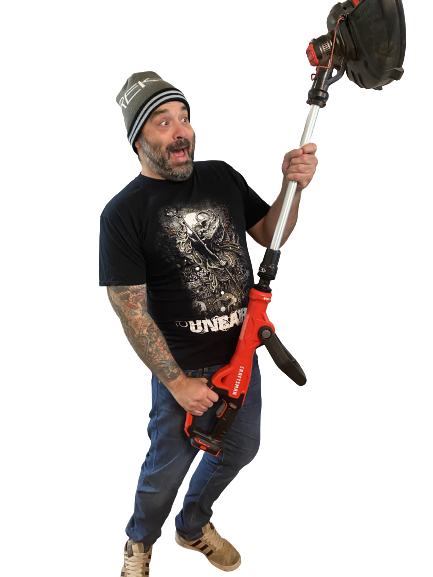
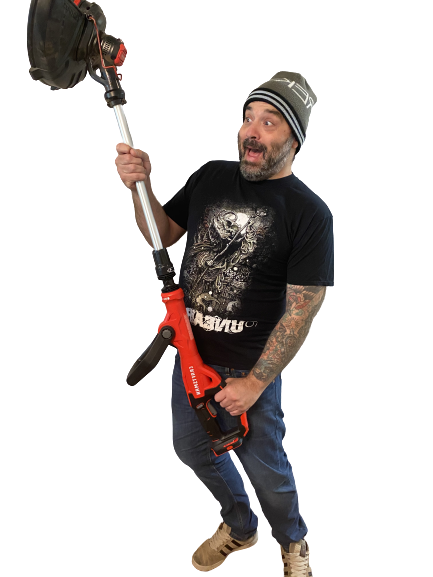
Added Mihalik and Chandler

diff --git a/Gameplay.cs b/Gameplay.cs
@@ -41,13 +41,21 @@ namespace ScorpCamp
         private void PlayerTurn(int cardIndex)
         {
             Card actionCard = this.player.PlayCard(cardIndex);
-            int damage = actionCard.GetDamage();
-            if (damage < 0)
+            if (actionCard.GetType() == typeof(DamageBuffCard))
             {
-                this.enemy.Health += damage;
-            } else
+                player.damageBuff += actionCard.GetDamage();
+            }
+            else
             {
-                this.player.Health += damage;
+                int damage = actionCard.GetDamage();
+                if (damage < 0)
+                {
+                    this.enemy.Health += damage + player.damageBuff;
+                }
+                else
+                {
+                    this.player.Health += damage;
+                }
             }
         }
 

diff --git a/CharacterSelect.cs b/CharacterSelect.cs
@@ -87,6 +87,25 @@ namespace ScorpCamp
                     new StaticDamageCard("Hat", "Waah.png", 12)
                 }
             ));
+            characters.Add(new Character(
+                "Mr. Beard",
+                "Mihalik.png",
+                70,
+                new List<Card>
+                {
+                    new RandomDamageCard("Weed Whacker", "Whacker.png", -100, -1)
+                }
+            ));
+            characters.Add(new Character(
+                "Chandler with a Tape Measure",
+                "Chandler.png",
+                42,
+                new List<Card>
+                {
+                    new DamageBuffCard("Extend", "MeasureBuff.png", -3),
+                    new StaticDamageCard("TapeMeasure", "MeasureAttack.png", -3),
+                }
+            ));
 
             return characters;
         }

diff --git a/DamageBuffCard.cs b/DamageBuffCard.cs
@@ -1,0 +1,27 @@
+using System;
+using System.Collections.Generic;
+using System.Linq;
+using System.Text;
+using System.Threading.Tasks;
+
+namespace ScorpCamp
+{
+    class DamageBuffCard : Card
+    {
+        private int damage;
+
+        public DamageBuffCard(
+            string name,
+            string source,
+            int damage
+        ) : base(name, source)
+        {
+            this.damage = damage;
+        }
+
+        public override int GetDamage()
+        {
+            return damage;
+        }
+    }
+}

diff --git a/Character.cs b/Character.cs
@@ -18,6 +18,8 @@ namespace ScorpCamp
         private List<Card> deck;
 
         private List<Card> hand;
+        public int damageBuff
+        { get; set; }
 
         public List<Card> Hand
         { get => this.hand; }
@@ -47,6 +49,7 @@ namespace ScorpCamp
             this.source = source;
             this.health = health;
             this.deck = deck;
+            this.damageBuff = 0;
             this.MaxHealth = health;
             this.hand = new List<Card>();
             this.GetImage = new Image

diff --git a/obj/Debug/ScorpCamp_Content.g.i.cs b/obj/Debug/ScorpCamp_Content.g.i.cs
@@ -8,6 +8,6 @@
 // </auto-generated>
 //------------------------------------------------------------------------------
 
-[assembly: System.Windows.Resources.AssemblyAssociatedContentFileAttribute("waah.png")]
+[assembly: System.Windows.Resources.AssemblyAssociatedContentFileAttribute("measureattack.png")]
 
 
